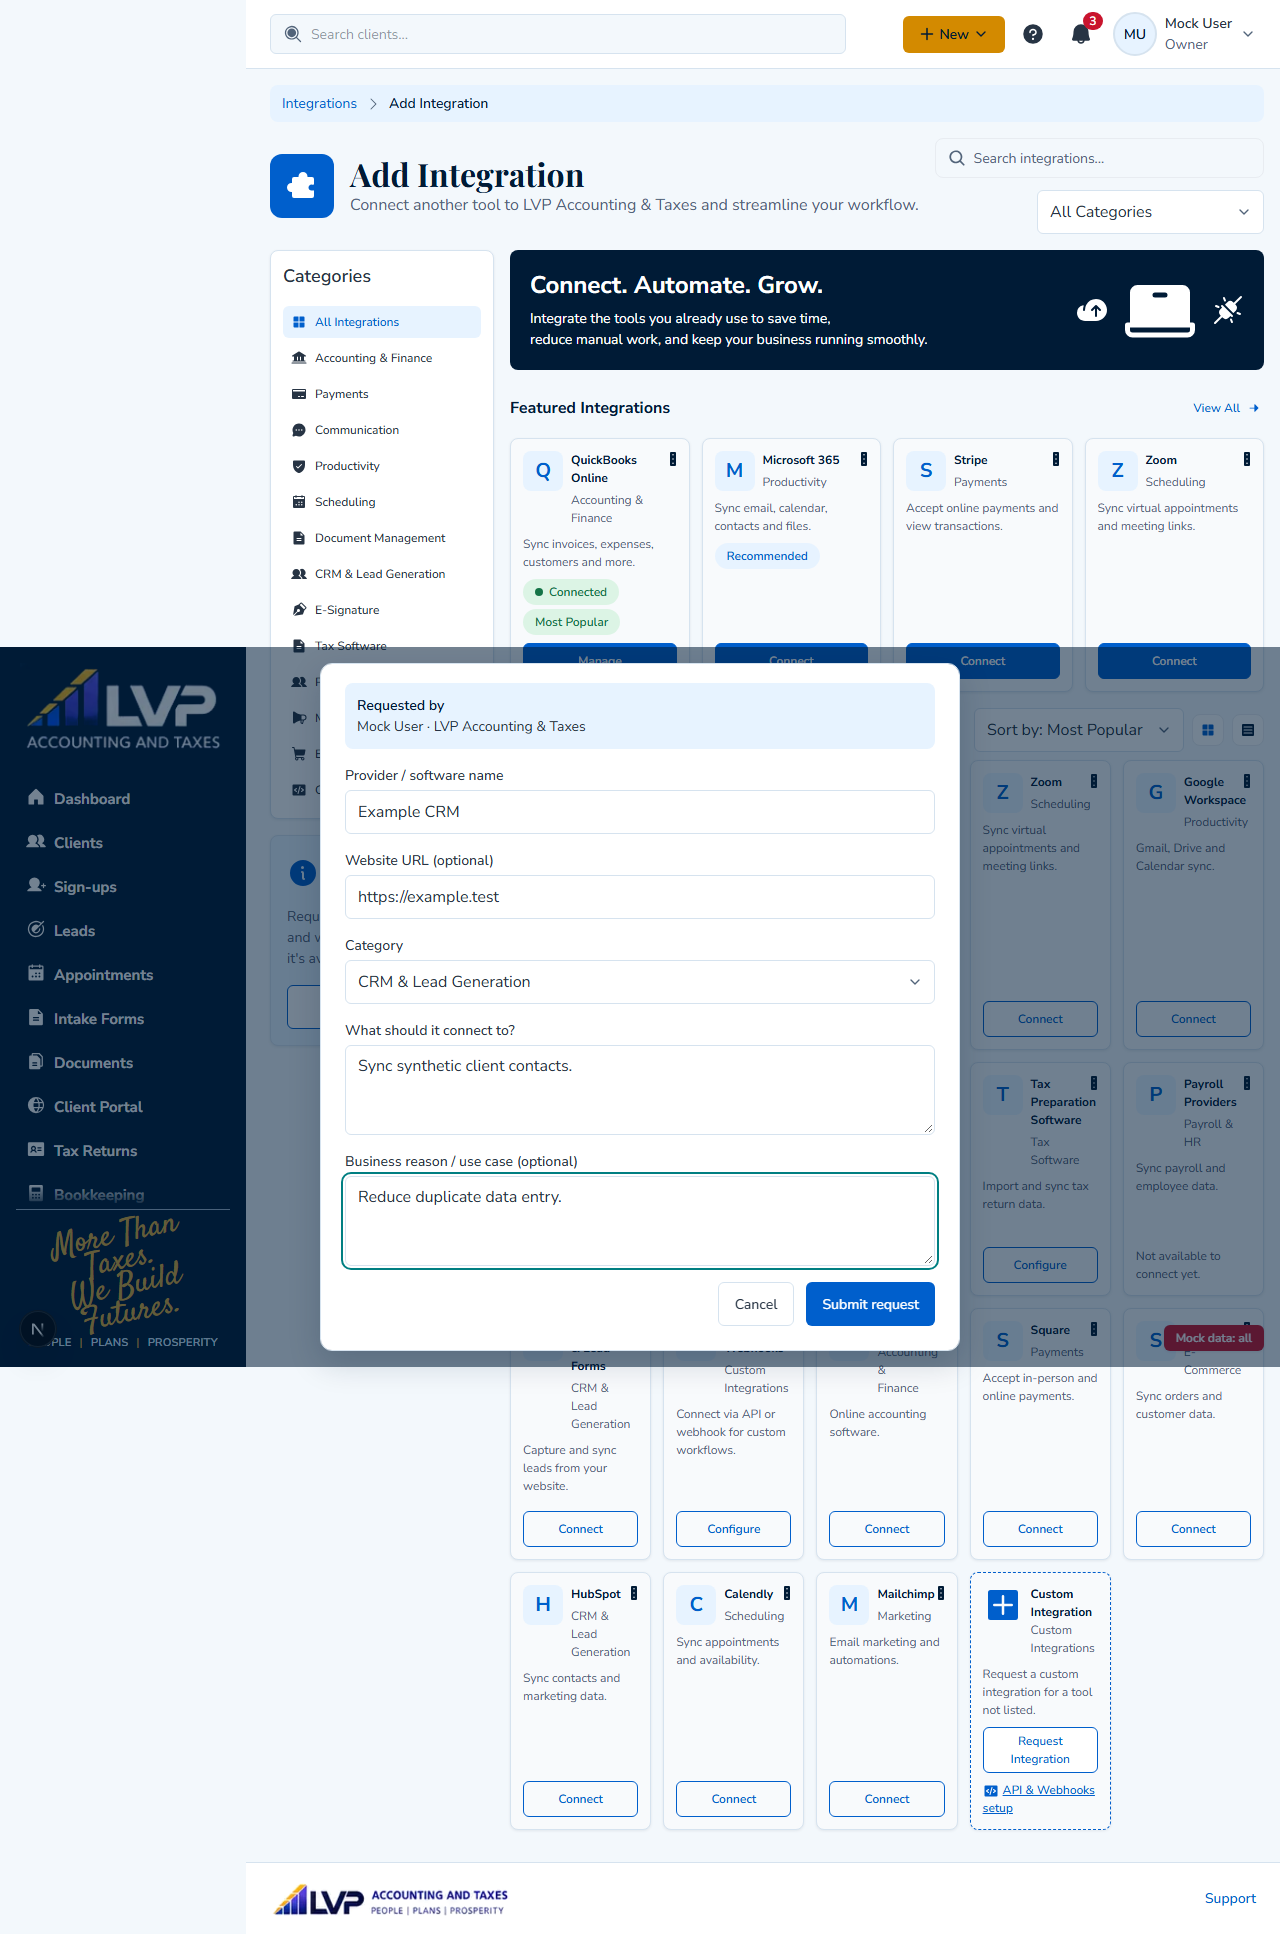
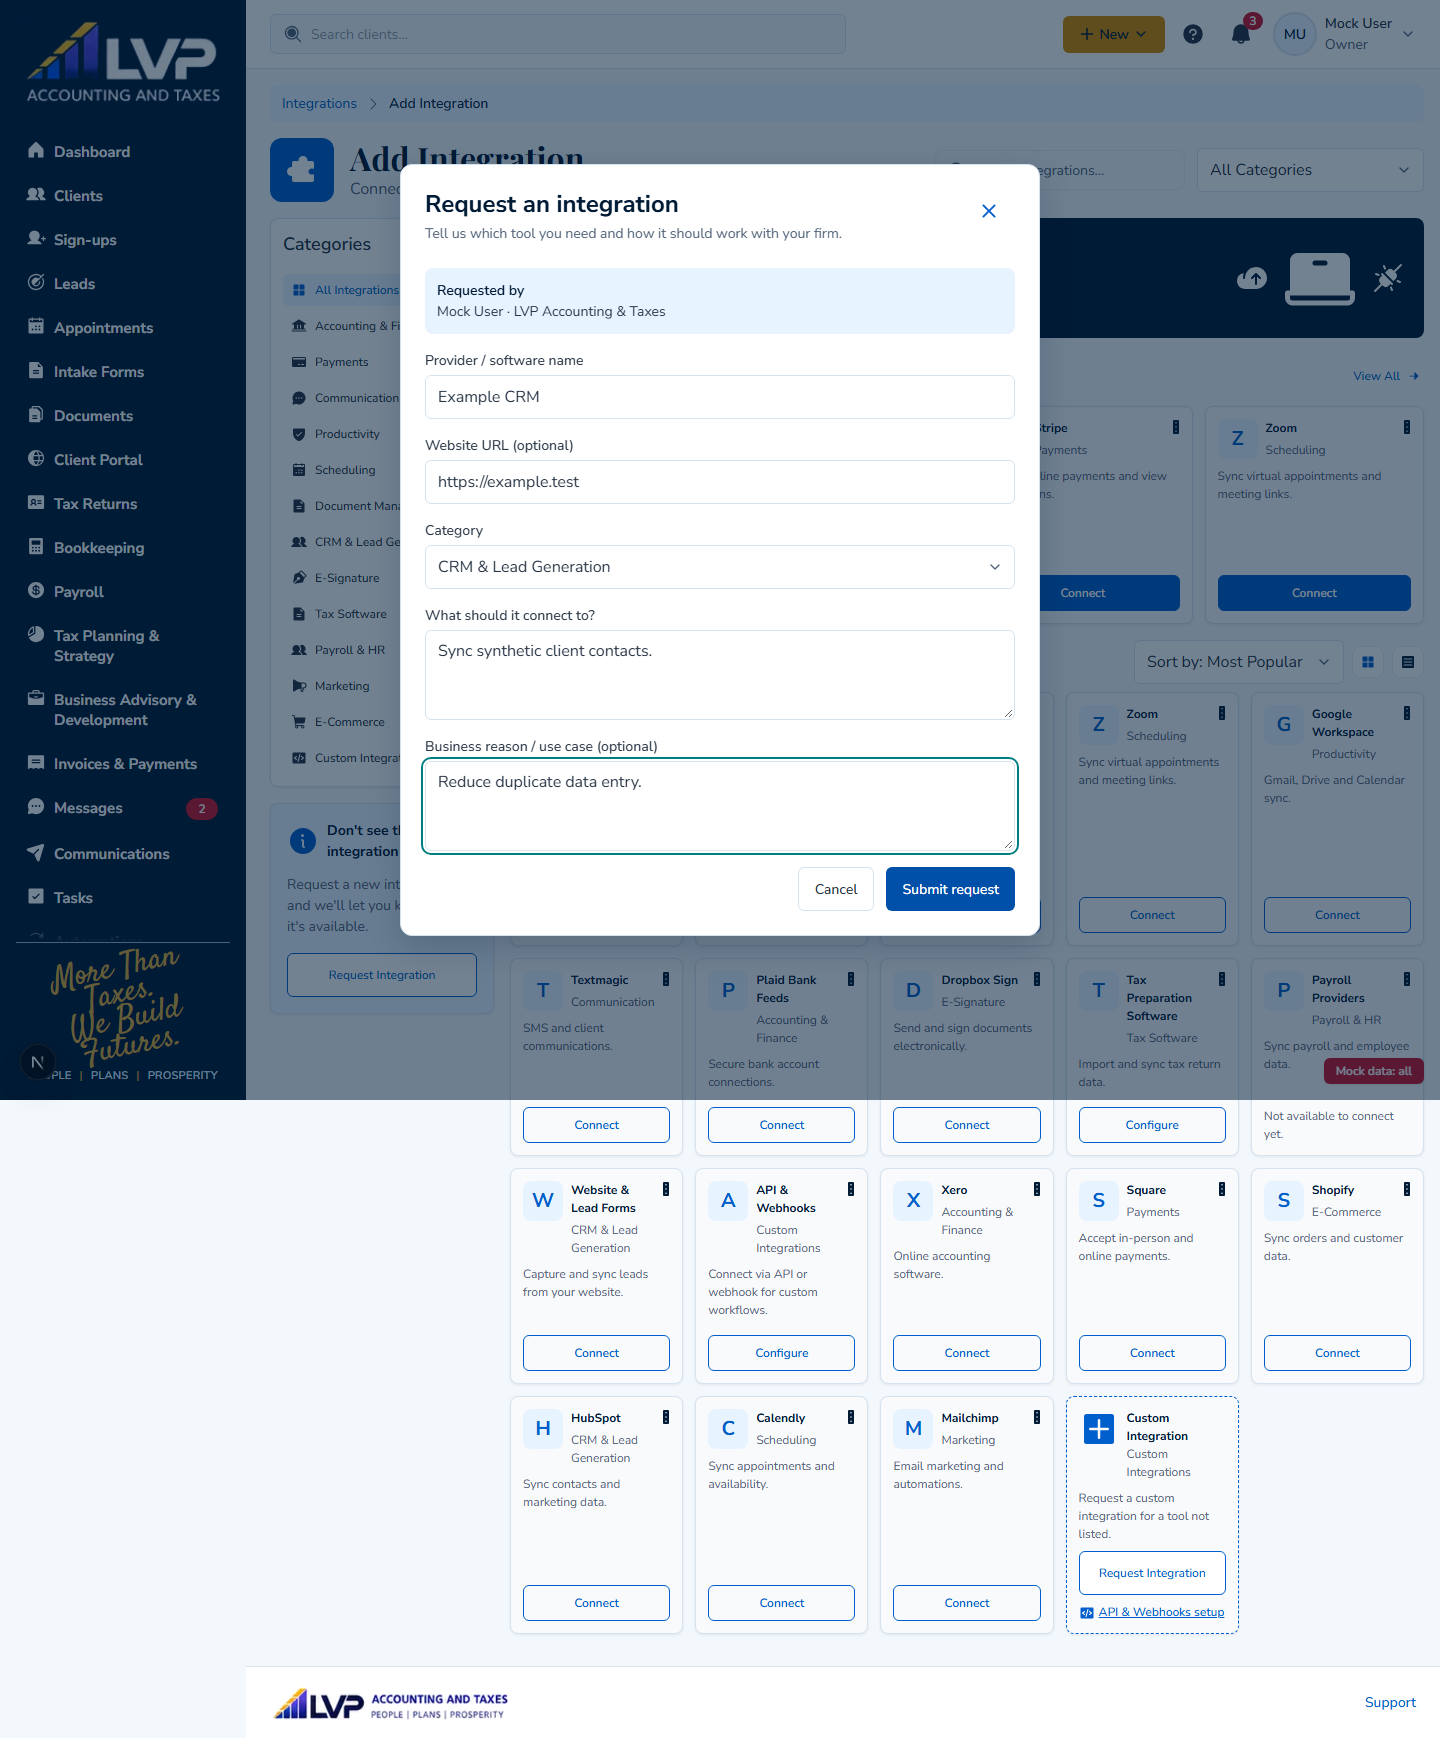
test: finalize marketplace review evidence (I01)

diff --git a/apps/web/e2e/mock/ibrahim-integrations-marketplace.spec.ts b/apps/web/e2e/mock/ibrahim-integrations-marketplace.spec.ts
@@ -110,6 +110,7 @@ test('catalog search, category navigation, sorting, view modes and connected act
 test('request modal validates the shared schema, submits once and confirms API acknowledgement', async ({
   page,
 }, testInfo) => {
+  await page.setViewportSize({ width: 1440, height: 1100 });
   await mockCatalog(page);
   let submitted = 0;
   await page.route('**/api/v1/business/integration-requests', async (route) => {

diff --git a/apps/web/src/app/firm/(workspace)/integrations/marketplace/_components/review/README.md b/apps/web/src/app/firm/(workspace)/integrations/marketplace/_components/review/README.md
@@ -36,3 +36,9 @@ Reference: `docs/mockups/firm-workspace/integrations/source/add-integration-mark
 - Shared navigation/header density and colors are owned elsewhere and are unchanged.
 - The reference's sample counts are not hard-coded; counts, provider availability and ordering come from the API. The synthetic fixture has 18 providers, including connected and unsupported examples.
 - Existing shared-shell image warnings were observed in browser tests; no unrelated shell files were changed.
+
+## Final validation notes
+
+- Repository lint and typecheck passed sequentially: `pnpm exec turbo run lint typecheck --concurrency=1` (16 successful tasks, with pre-existing warnings elsewhere). This completed before the final main merge; CI must validate the combined head as usual.
+- Latest main was merged without conflicts. The page's changed paths remain separate from the first-page PR and other owners' paths.
+- The request-modal screenshot uses 1440 x 1100 so its heading and form fields are visible together; the form scenario passed again at that viewport.
